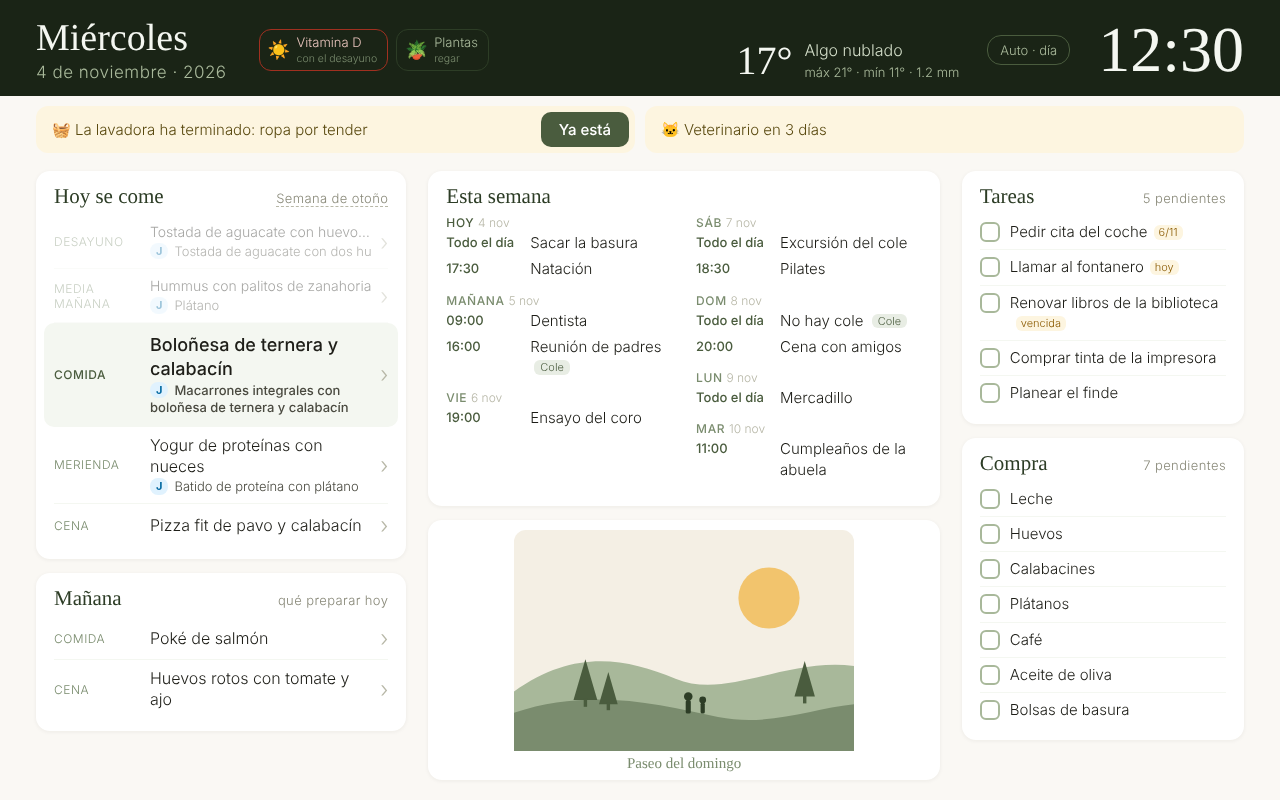
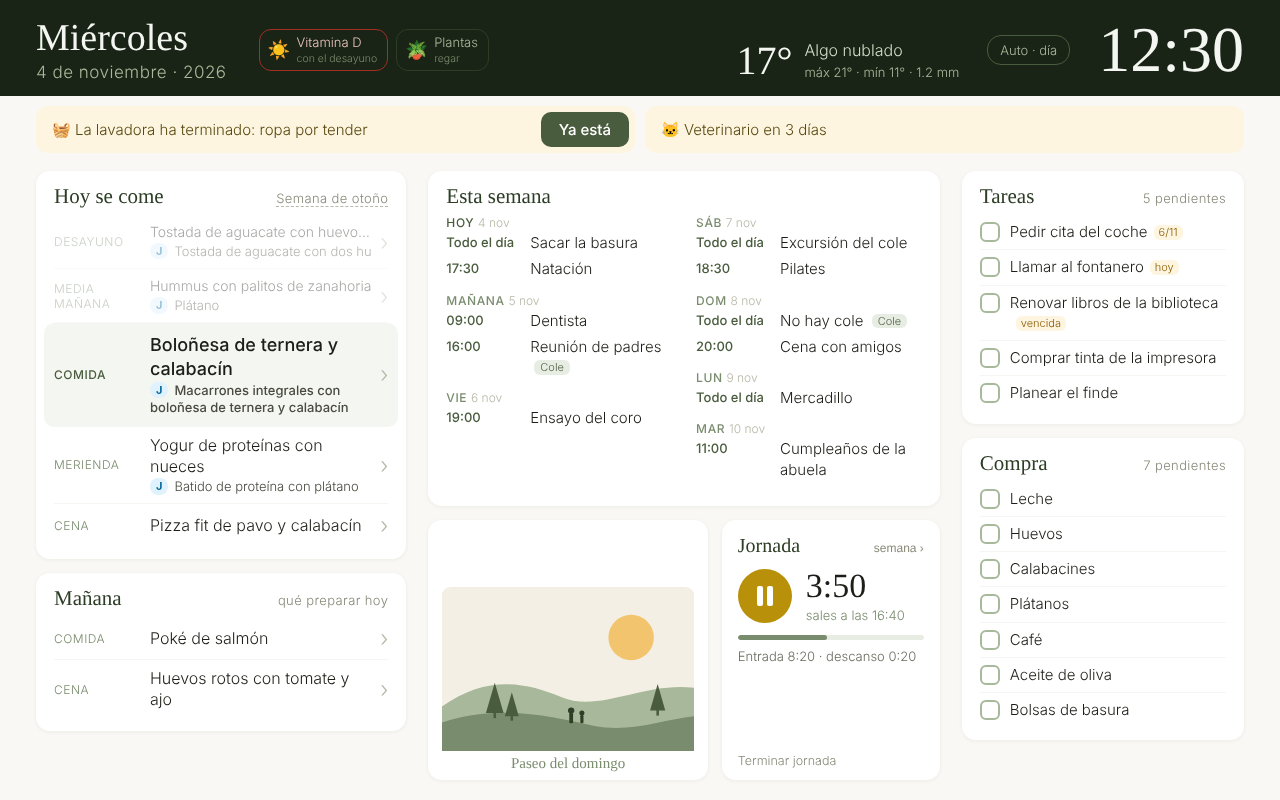
Docs: new screenshots (panel with the work timer, its week, calendar week and month) in the README and both guides
Claude-Session: https://claude.ai/code/session_01XFa5nRVnwC7EDj78HJYt1f

Changed region(s): [[0.3438, 0.6562, 0.7188, 0.9688]]

diff --git a/docs/es/guia.md b/docs/es/guia.md
@@ -119,7 +119,9 @@ Copia `panel/config.example.js` como `panel/config.js` y edítalo. Cada opción 
 
 Toca la agenda de la semana para abrir un calendario completo, al estilo de Google Calendar: **Semana** o **Mes**, ‹ › para ir hacia atrás y hacia delante, **Hoy** para volver, y un color por cada calendario de Home Assistant (la leyenda está abajo). En el mes, toca un día para ver su semana. Lee los mismos calendarios que el panel, así que no hay nada que configurar.
 
-![El calendario en grande, vista de semana](../img/calendar-week.png)
+| Semana | Mes |
+|---|---|
+| ![El calendario en grande, vista de semana](../img/calendar-week.png) | ![El calendario en grande, vista de mes](../img/calendar-month.png) |
 
 ### El fichaje (opcional)
 
@@ -133,6 +135,8 @@ Sirve para saber cuántas horas trabajas de verdad sin apuntarlas en ningún sit
 - **Tocando la tarjeta** ves la semana: entrada, salida, descansos, horas trabajadas y la diferencia con tu jornada; con la flecha vas a semanas anteriores.
 - **¿Se te olvidó fichar?** En la semana, toca el día y corrige cada hora con −1 h, −5, +5 y +1 h, añade el paso que faltó (un descanso, la salida) o quita el último. Las horas tienen que ir en orden.
 - Un día que no se terminó cuenta como jornada completa y sale marcado con «?».
+
+![La semana del fichaje](../img/work-week.png)
 
 Los fichajes se guardan en el servidor (`work.json` en la carpeta de estado; dentro de Home Assistant OS sobrevive a las actualizaciones), con la hora del servidor, así todas las pantallas ven lo mismo y una recarga no pierde nada.
 

diff --git a/docs/guide.md b/docs/guide.md
@@ -115,7 +115,9 @@ Copy `panel/config.example.js` to `panel/config.js` and edit it. The file explai
 
 Tap the week's agenda to open a full calendar, a bit like Google Calendar: **Week** or **Month**, ‹ › to go back and forward, **Today** to come back, and one colour per Home Assistant calendar (the legend is at the bottom). In the month, tap a day to see its week. It reads the same calendars as the panel, so there is nothing to configure.
 
-![The big calendar, week view](img/calendar-week.png)
+| Week | Month |
+|---|---|
+| ![The big calendar, week view](img/calendar-week.png) | ![The big calendar, month view](img/calendar-month.png) |
 
 ### The work timer (optional)
 
@@ -129,6 +131,8 @@ Useful if you want to know how many hours you really work without writing them d
 - **Tap the card** to see the week: in, out, breaks, hours worked and the difference with your day; the arrow goes to earlier weeks.
 - **Forgot to clock in?** In the week, tap the day and correct each time with −1 h, −5, +5 and +1 h, add the step you missed (a break, the end) or remove the last one. Times must go in order.
 - A day you never ended counts as a full day and is marked with "?".
+
+![The week of the work timer](img/work-week.png)
 
 Entries are kept on the server (`work.json` in the state folder, inside Home Assistant OS it survives updates), with the server's clock, so every screen shows the same and a reload loses nothing.
 

diff --git a/README.md b/README.md
@@ -21,6 +21,10 @@ Turn the tablet that sits in a drawer into an always-on family panel: today's me
 |---|---|---|
 | ![](docs/img/meal-detail.png) | ![](docs/img/long-lists-672.png) | ![](docs/img/night.png) |
 
+| Big calendar: month | Big calendar: week | Work timer: the week (optional) |
+|---|---|---|
+| ![](docs/img/calendar-month.png) | ![](docs/img/calendar-week.png) | ![](docs/img/work-week.png) |
+
 <img src="docs/img/telegram-es.png" alt="Shopping and tasks from a Telegram group" width="520">
 
 ## Try it in one minute
